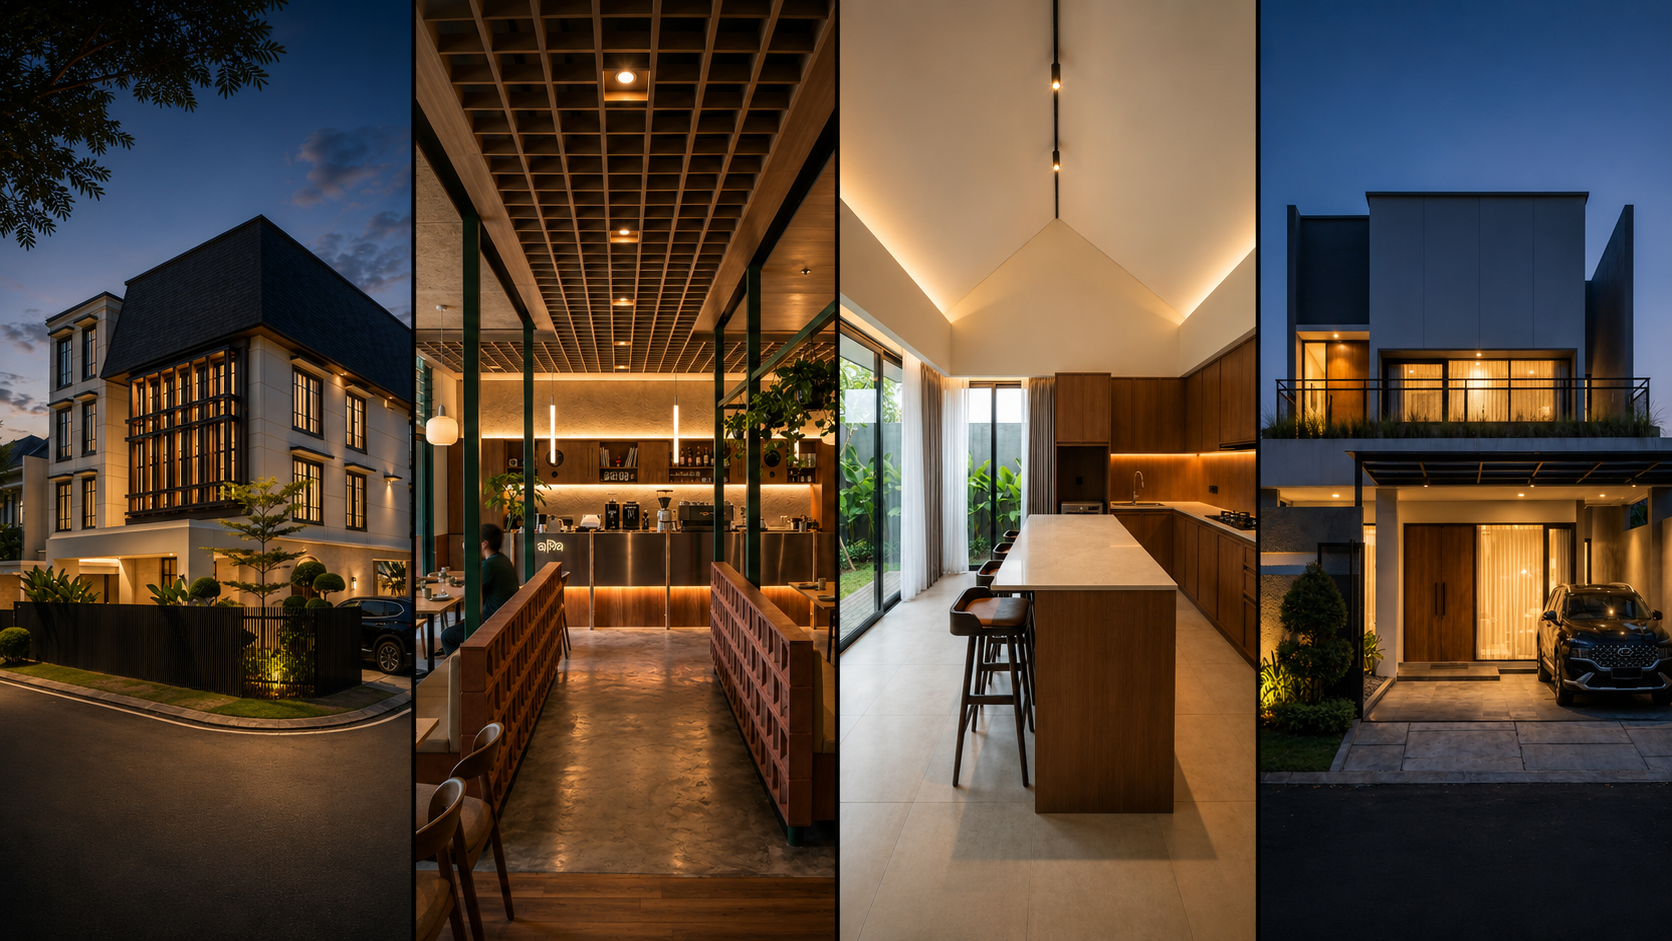
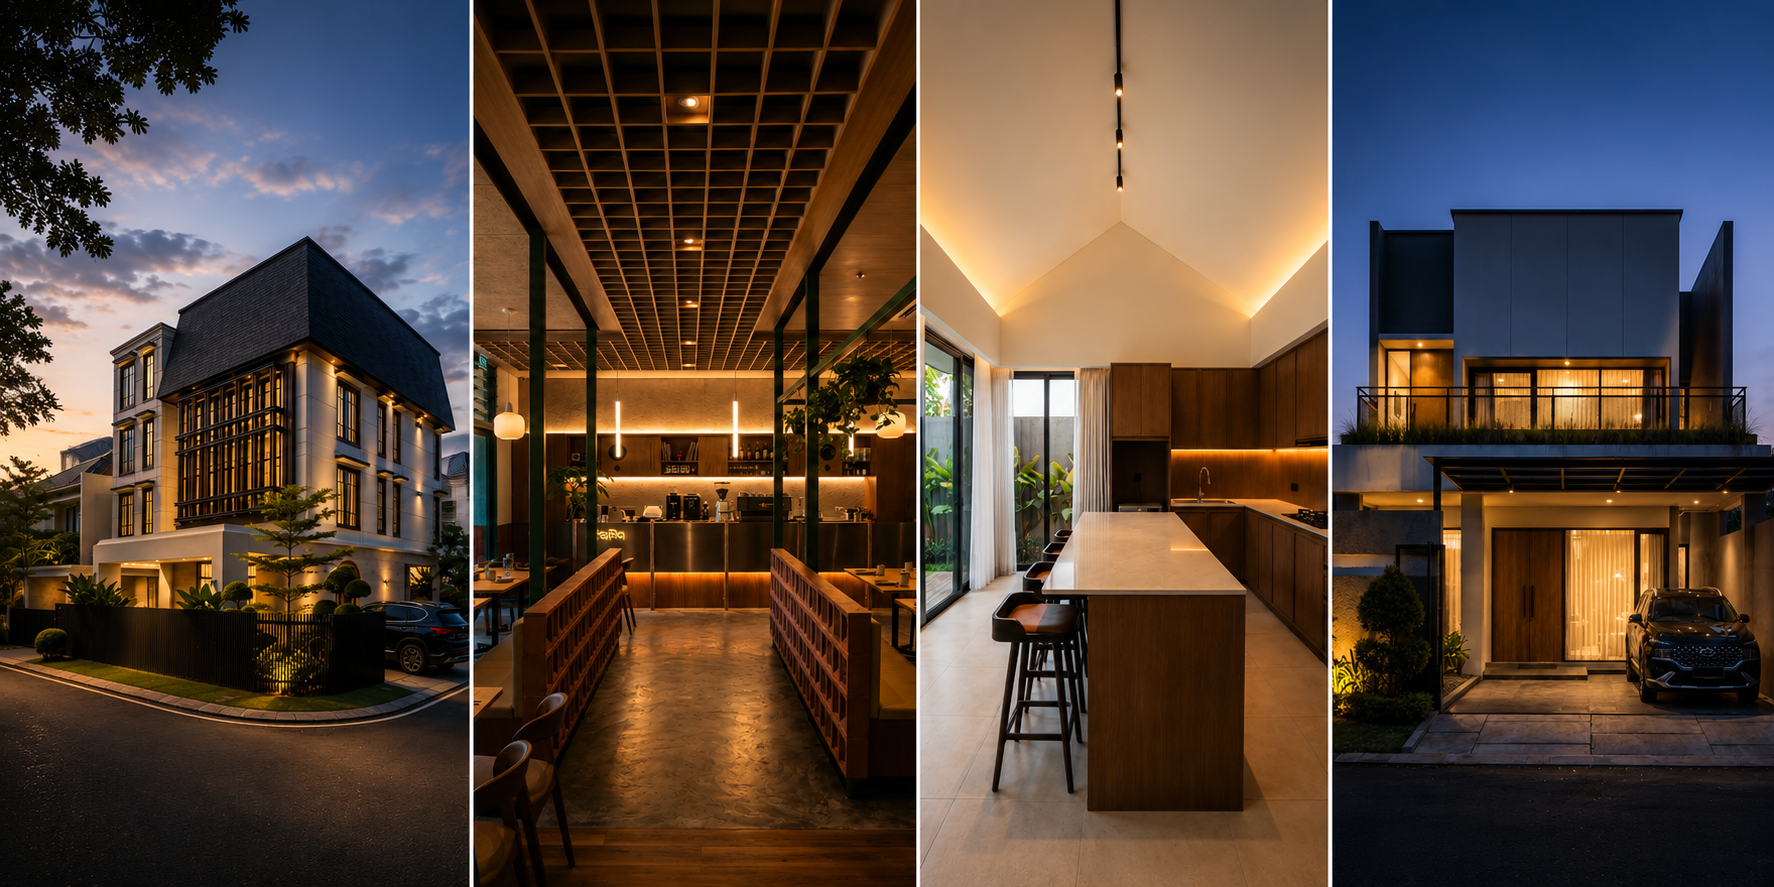
fix about

diff --git a/about/index.html b/about/index.html
@@ -1158,34 +1158,9 @@
                <div class="flex flex-col justify-center">
                  <h1 data-i18n="profile.information" class="text-3xl md:text-5xl font-bold mb-4 text-center text-white">
               </h1>
-              <p data-i18n="profile.descriptions"  class="mt-2 lg:mt-3 text-white text-xs md:text-sm lg:text-base xl:text-lg leading-tight text-center" style="padding-top: 5%;">
+              <p data-i18n="profile.descriptions"  class="mt-3 md:mt-4 text-sm xs:text-base md:text-base leading-relaxed" style="padding-top: 5%; text-align: justify;">
               </p>
-              <div class="mt-10 md:mt-12 grid grid-cols-3 gap-4 md:gap-10 text-center">
-                <div>
-                  <h3 data-i18n="profile.projectCompletednumber" class="text-white text-3xl md:text-4xl xl:text-5xl 2xl:text-6xl font-extrabold leading-none">
-                    +45
-                  </h3>
-                  <p data-i18n="profile.projectCompleted" class="mt-2 lg:mt-3 text-white text-xs md:text-sm lg:text-base xl:text-lg leading-tight">
-                    Project Completed
-                  </p>
-                </div>
-                <div>
-                  <h3 data-i18n="profile.yoenumber" class="text-white text-3xl md:text-4xl xl:text-5xl 2xl:text-6xl font-extrabold leading-none">
-                    +6
-                  </h3>
-                  <p data-i18n="profile.yoe" class="mt-2 lg:mt-3 text-white text-xs md:text-sm lg:text-base xl:text-lg leading-tight">
-                    Year of Experience
-                  </p>
-                </div>
-                <div>
-                  <h3 data-i18n="profile.citynumber" class="text-white text-3xl md:text-4xl xl:text-5xl 2xl:text-6xl font-extrabold leading-none">
-                    +11
-                  </h3>
-                  <p data-i18n="profile.city" class="mt-2 lg:mt-3 text-white text-xs md:text-sm lg:text-base xl:text-lg leading-tight">
-                    City
-                  </p>
-                </div>
-              </div>
+              
             </div>
                 <!-- <a
                   href="https://wa.me/6282142824797"
@@ -1547,6 +1522,9 @@
                   element.innerHTML = value;
               } 
               else if (key === "hero.title4") {
+                  element.innerHTML = value;
+              } 
+              else if (key === "profile.descriptions") {
                   element.innerHTML = value;
               } 
               else {

diff --git a/index.html b/index.html
@@ -977,7 +977,7 @@
           <section
             class="relative w-full h-[60vh] xs:h-[70vh] sm:h-[80vh] md:h-screen lg:h-screen xl:h-screen 2xl:h-screen 3xl:h-screen overflow-hidden"
             >
-            <div class="absolute inset-0 z-0">
+            <div class="absolute inset-0 z-0 inset-0 bg-black/50">
               <img
                 alt="Modern House"
                 class="w-full h-full object-cover"
